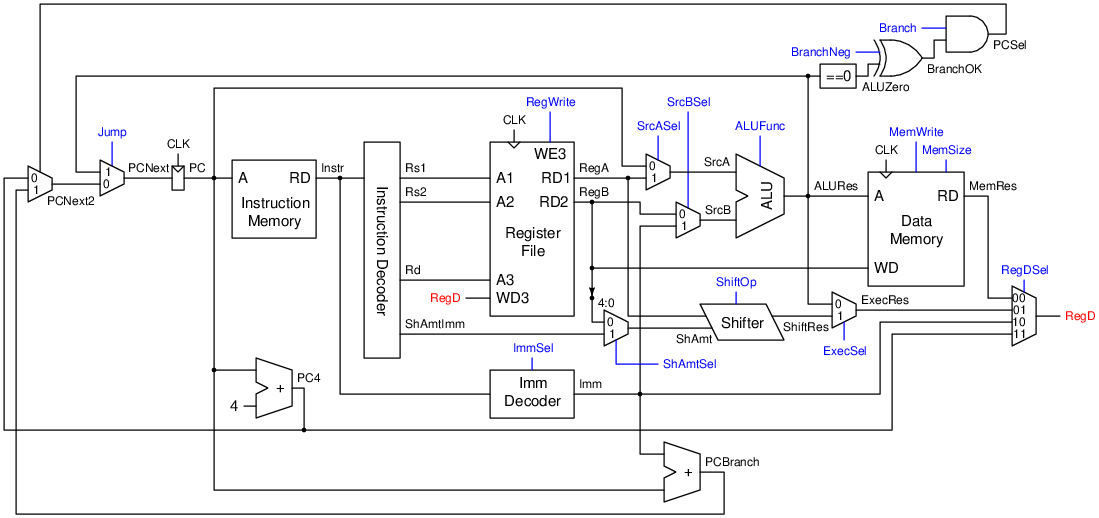
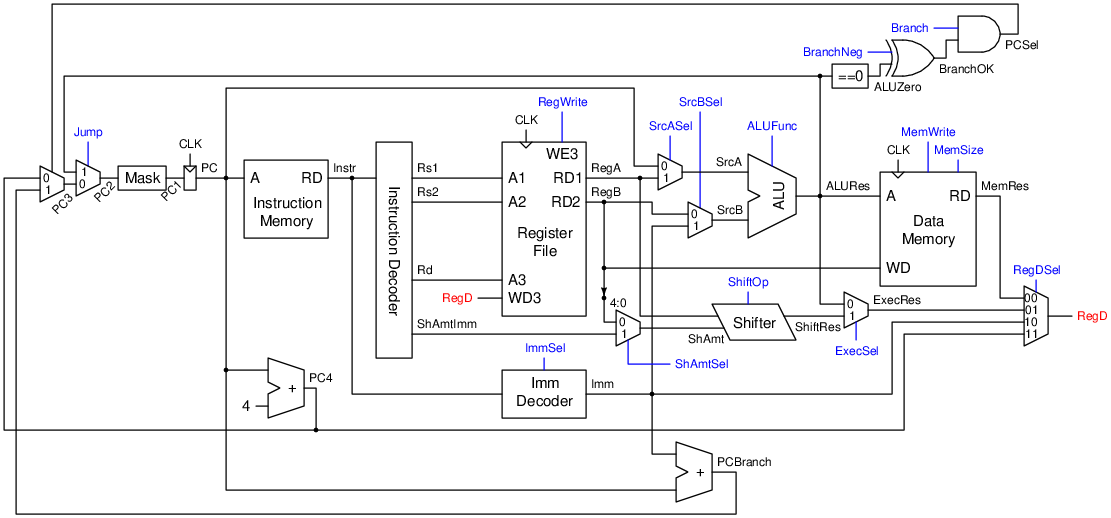
riscv_basic: ignore LSB when jump + update README.md

diff --git a/riscv_basic/README.md b/riscv_basic/README.md
@@ -25,16 +25,24 @@ otherwise `ALUCode = Funct3`.
 
 #### Main Decoder
 
-| `OpCode`           | `funct3` | `ImmSel` | `SrcASel` | `SrcBSel` | `ALUSet` | `ALUOp` | `ShAmtSel` | `RegWrite` | `RegDSel` |
-|--------------------|----------|----------|-----------|-----------|----------|---------|------------|------------|-----------|
-| `0010011 (OP-IMM)` | `x01`    |          |           |           |          |         | `1`        | `1`        | `10`      |
-| `0010011 (OP-IMM)` | Others   | `000`    | `1`       | `1`       | `0`      |         |            | `1`        | `01`      |
-| `0110011 (OP)`     | `x01`    |          |           |           |          |         | `0`        | `1`        | `10`      |
-| `0110011 (OP)`     | Others   |          | `1`       | `0`       | `0`      |         |            | `1`        | `01`      |
-| `0110111 (LUI)`    |          | `010`    |           |           |          |         |            | `1`        | `11`      |
-| `0010111 (AUIPC)`  |          | `010`    | `0`       | `1`       | `1`      | `000`   |            | `1`        | `01`      |
-| `0000011 (LOAD)`   |          | `000`    | `1`       | `1`       | `1`      | `000`   |            | `1`        | `00`      |
-| `0100011 (STORE)`  |          | `001`    | `1`       | `1`       | `1`      | `000`   |            | `0`        |           |
+| `OpCode`           | `funct3`   | `ImmSel` | `{SrcASel,SrcBSel}` | `{ALUSet,ALUOp}` | `ShAmtSel` | `ExecSel` | `{RegWrite,RegDSel}` | `{Jump,Branch,BranchNeg}` |
+|--------------------|------------|----------|---------------------|------------------|------------|-----------|----------------------|---------------------------|
+| `0010011(OP-IMM)` | `x01`       |          |                     |                  | `1 (IMM)`  | `1 (SFT)` | `1_01 (EXEC)`        | `00x (PC4)`               |
+| `0010011(OP-IMM)` | Others      | `000(I)` | `11 (REG IMM)`      | `0_xxx`          |            | `0 (ALU)` | `1_01 (EXEC)`        | `00x (PC4)`               |
+| `0110011(OP)`     | `x01`       |          |                     |                  | `0 (REG)`  | `1 (SFT)` | `1_01 (EXEC)`        | `00x (PC4)`               |
+| `0110011(OP)`     | Others      |          | `10 (REG REG)`      | `0_xxx`          |            | `0 (ALU)` | `1_01 (EXEC)`        | `00x (PC4)`               |
+| `0110111(LUI)`    |             | `010(U)` |                     |                  |            |           | `1_10 (IMM)`         | `00x (PC4)`               |
+| `0010111(AUIPC)`  |             | `010(U)` | `01 (PC  IMM)`      | `1_000 (ADD)`    |            | `0 (ALU)` | `1_01 (EXEC)`        | `00x (PC4)`               |
+| `0000011(LOAD)`   |             | `000(I)` | `11 (REG IMM)`      | `1_000 (ADD)`    |            | `0 (ALU)` | `1_00 (MEM)`         | `00x (PC4)`               |
+| `0100011(STORE)`  |             | `001(S)` | `11 (REG IMM)`      | `1_000 (ADD)`    |            | `0 (ALU)` | `0_xx`               | `00x (PC4)`               |
+| `1101111(JAL)`    |             | `100(J)` | `01 (PC  IMM)`      | `1_000 (ADD)`    |            | `0 (ALU)` | `1_11 (PC4)`         | `1xx (JUMP)`              |
+| `1100111(JALR)`   |             | `000(I)` | `11 (REG IMM)`      | `1_000 (ADD)`    |            | `0 (ALU)` | `1_11 (PC4)`         | `1xx (JUMP)`              |
+| `1100010(BRANCH)` | `000(BEQ)`  | `101(B)` | `10 (REG REG)`      | `1_001 (SUB)`    |            | `0 (ALU)` | `0_xx`               | `010 (BRANCH_ZERO)`       |
+| `1100010(BRANCH)` | `001(BNE)`  | `101(B)` | `10 (REG REG)`      | `1_001 (SUB)`    |            | `0 (ALU)` | `0_xx`               | `011 (BRANCH_NOTZERO)`    |
+| `1100010(BRANCH)` | `100(BLT)`  | `101(B)` | `10 (REG REG)`      | `1_010 (SLT)`    |            | `0 (ALU)` | `0_xx`               | `011 (BRANCH_NOTZERO)`    |
+| `1100010(BRANCH)` | `101(BGE)`  | `101(B)` | `10 (REG REG)`      | `1_010 (SLT)`    |            | `0 (ALU)` | `0_xx`               | `010 (BRANCH_ZERO)`       |
+| `1100010(BRANCH)` | `110(BLTU)` | `101(B)` | `10 (REG REG)`      | `1_011 (SLTU)`   |            | `0 (ALU)` | `0_xx`               | `011 (BRANCH_NOTZERO)`    |
+| `1100010(BRANCH)` | `111(BGEU)` | `101(B)` | `10 (REG REG)`      | `1_011 (SLTU)`   |            | `0 (ALU)` | `0_xx`               | `010 (BRANCH_ZERO)`       |
 
 - Empty cells are filled with don't care (`x`).
 - `MemWrite = 1` iff `Opcode == 0100011 (STORE)`. 
